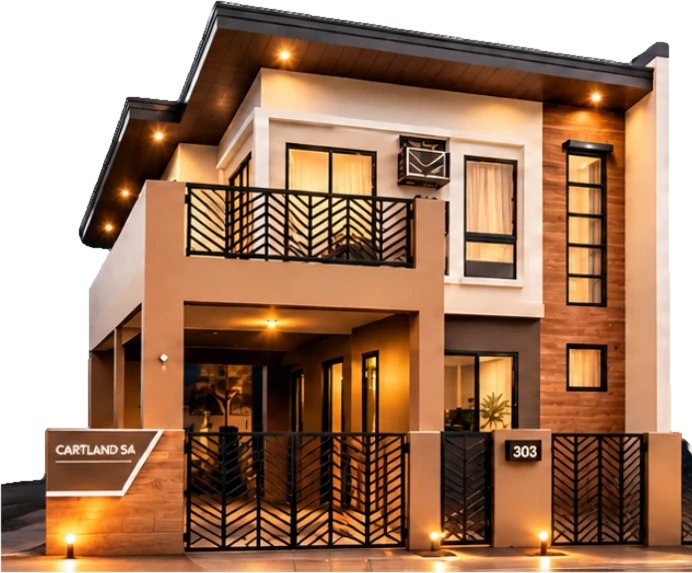
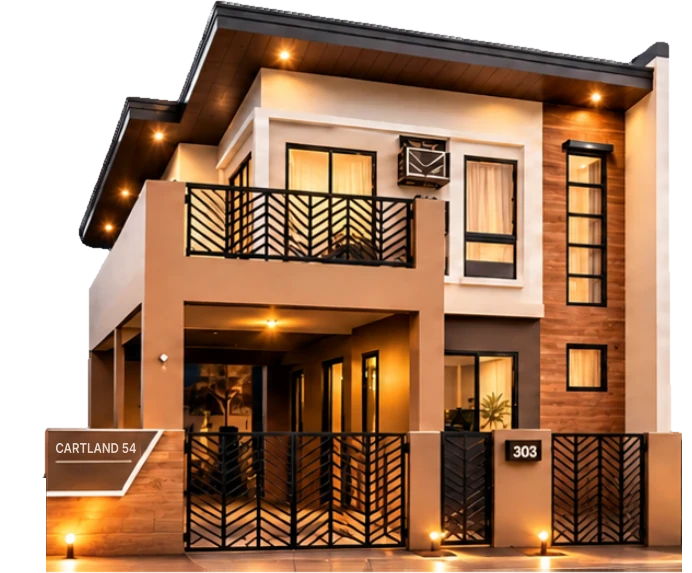
House cut-outs: correct the Cartland 54 and Charles 150 signs, remove the road beside Charles 150
Claude-Session: https://claude.ai/code/session_01MkTV9UDit9hhRyBLPYsYJ9

Changed region(s): [[0.0, 0.8307, 0.091, 1.0], [0.9711, 0.7714, 1.0, 1.0], [0.0607, 0.7714, 0.2124, 0.801]]

diff --git a/design/house-models/make-cutouts.py b/design/house-models/make-cutouts.py
@@ -21,7 +21,7 @@ transparency and cannot be cut cleanly.
 from pathlib import Path
 
 import numpy as np
-from PIL import Image
+from PIL import Image, ImageDraw, ImageFont
 from scipy import ndimage as ndi
 
 HERE = Path(__file__).parent
@@ -146,6 +146,54 @@ def trim_edges(im, name):
     return im.crop((int(im.width * left), 0, int(im.width * (1 - right)), im.height))
 
 
+# Retouching of the finished cut-outs (coordinates are pixels of the finished image).
+#   clear: boxes (x0, y0, x1, y1) made fully transparent: road or fence of the neighbouring lot.
+#   text:  (box to wipe, new text, left x, baseline y, cap height px): the sign on the gate post is
+#          wiped by stretching the plate colour down through the text rows, then lettered again.
+FONT = "/usr/share/fonts/opentype/inter/Inter-{}.otf"
+RETOUCH = {
+    "cartland-54": {
+        "clear": [(0, 478, 46, 573), (682, 430, 692, 573)],
+        "text": [((53, 440, 141, 457), "CARTLAND 54", 56, 453, 10, 80, "SemiBold")],
+    },
+    "charles-150": {
+        "clear": [(0, 0, 165, 661), (0, 598, 171, 661), (0, 642, 965, 661)],
+        "text": [((186, 502, 264, 523), "CHARLES 150", 191, 518, 11, 80, "Medium")],
+    },
+}
+
+
+def retouch(im, name):
+    spec = RETOUCH.get(name)
+    if not spec:
+        return im
+    arr = np.asarray(im).copy()
+    for x0, y0, x1, y1 in spec.get("clear", []):
+        arr[y0:y1, x0:x1, 3] = 0
+    im = Image.fromarray(arr, "RGBA")
+    for (x0, y0, x1, y1), text, left, base, cap, width, weight in spec.get("text", []):
+        arr = np.asarray(im).copy().astype(np.float32)
+        top, bot = arr[y0 - 1, x0:x1], arr[y1, x0:x1]
+        t = np.linspace(0, 1, y1 - y0)[:, None, None]
+        arr[y0:y1, x0:x1] = top[None] * (1 - t) + bot[None] * t
+        im = Image.fromarray(arr.astype(np.uint8), "RGBA")
+        # letter it 6x larger, then shrink, so the edges are as soft as the rest of the picture
+        k = 6
+        font = ImageFont.truetype(FONT.format(weight), int(cap / 0.727 * k))
+        l, t_, r, b = font.getbbox(text)
+        layer = Image.new("L", (r + 4 * k, int(cap * 2.4 * k)), 0)
+        ImageDraw.Draw(layer).text((2 * k, int(cap * 0.7 * k) - t_), text, font=font, fill=255)
+        box = layer.getbbox()
+        layer = layer.crop(box)
+        w = width or round(layer.width / k)
+        layer = layer.resize((w, max(1, round(layer.height / k))), Image.LANCZOS)
+        layer = layer.point(lambda v: int(v * 0.92))
+        white = Image.new("RGBA", layer.size, (238, 232, 226, 255))
+        white.putalpha(layer)
+        im.alpha_composite(white, (left, base - layer.height))
+    return im
+
+
 # source file -> output names, left to right
 SOURCES = {
     "calista.png": ["calista"],
@@ -169,5 +217,5 @@ if __name__ == "__main__":
         cuts = [0, *split_points(rgba, len(names)), rgba.width]
         assert len(cuts) == len(names) + 1, f"{file}: found {len(cuts) - 2} gaps for {len(names)} houses"
         for name, x0, x1 in zip(names, cuts, cuts[1:]):
-            save(trim(trim_edges(drop_edge_slivers(rgba.crop((x0, 0, x1, rgba.height))), name)), name)
+            save(retouch(trim(trim_edges(drop_edge_slivers(rgba.crop((x0, 0, x1, rgba.height))), name)), name), name)
     print("done:", sorted(p.name for p in OUT.glob("*.webp")))
